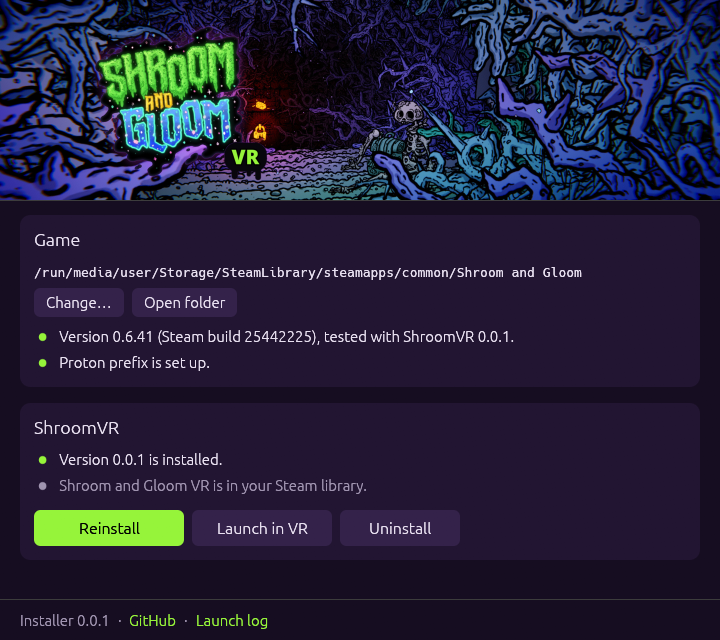
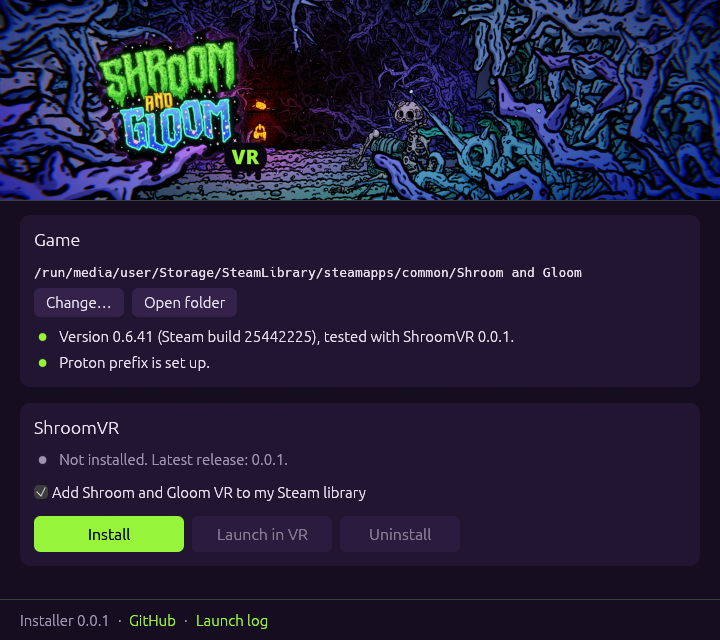
Show the installer before installing, smaller and centered

Changed region(s): [[0.0306, 0.6875, 0.5194, 0.875], [0.3056, 0.8125, 0.4278, 0.8438], [0.5194, 0.8125, 0.6111, 0.8438]]

diff --git a/README.md b/README.md
@@ -1,4 +1,4 @@
-![Shroom and Gloom VR](docs/header.png)
+<p align="center"><img src="docs/header.png" alt="Shroom and Gloom VR" width="720"></p>
 
 # Shroom and Gloom VR
 
@@ -17,7 +17,7 @@ Fan project, not affiliated with Team Lazerbeam or Devolver Digital.
    executable and run it.
 3. Press **Install**.
 
-![The installer](docs/installer.png)
+<p align="center"><img src="docs/installer.png" alt="The installer" width="420"></p>
 
 The installer finds the game in your Steam libraries, installs BepInEx and the mod, and adds
 **Shroom and Gloom VR** to your Steam library (Steam restarts once for that). Play from that entry or with
